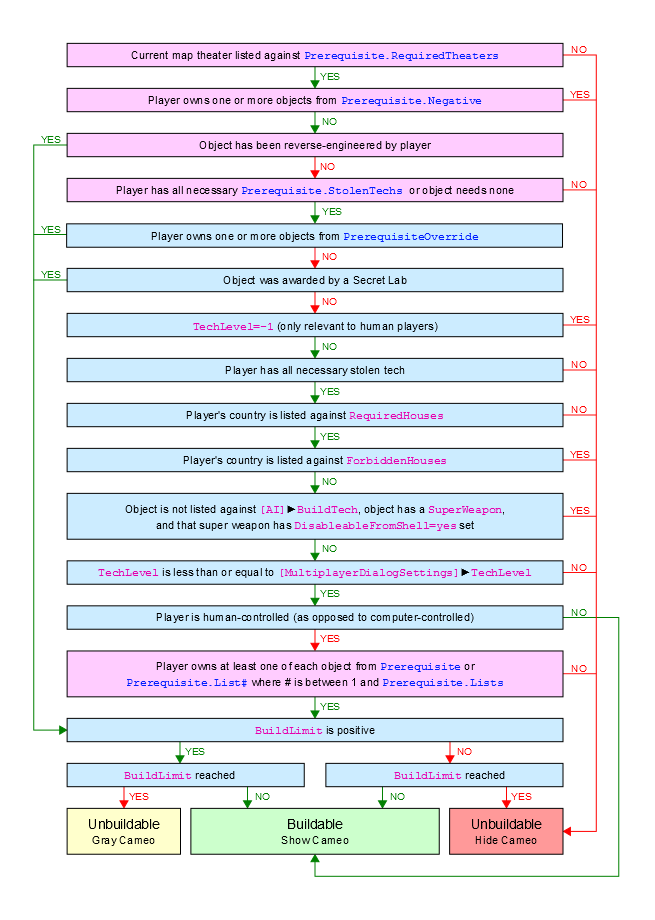
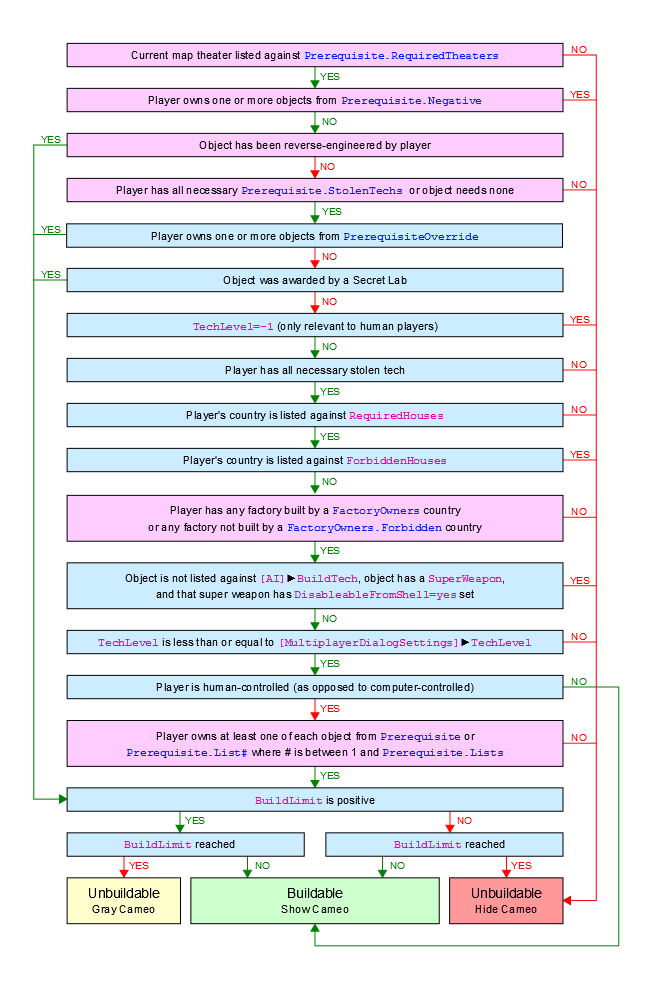
Prerequisite: Factory Built By Country

diff --git a/new/prerequisites.rst b/new/prerequisites.rst
@@ -84,6 +84,37 @@ Require Stolen Technology
 .. versionadded:: 0.1
 
 
+Require Factory Built By Country
+````````````````````````````````
+
+:tagdef:`[BuildingType]FactoryOwners.HaveAllPlans=boolean`
+  Whether a player capturing a building of this type would permanently gain all
+  plans of its initial owner. The initial owner is the player who owned it
+  first: the player who built it, or the owner of buildings pre-placed on the
+  map. For neutral structures, this would be the neutral country. Defaults to
+  :value:`no`.
+:tagdef:`[TechnoType]FactoryOwners=list of houses`
+  The list of countries whose factories can build this object. If empty, every
+  country is allowed to build this object. Otherwise, players need to own at
+  least one factory built by a country in this list or the plans of at least one
+  of these countries to produce it.
+:tagdef:`[TechnoType]FactoryOwners.Forbidden=list of houses`
+  The list of countries whose factories cannot build this object. Players owning
+  only factories built by countries in this list and only having plans of these
+  countries are prevented from producing it.
+
+.. note:: AI ignores :tag:`FactoryOwners` and :tag:`FactoryOwners.Forbidden` on
+  buildings, but not on units.
+
+.. note:: When undeploying, buildings will lose their initial owner and the
+  undeployed vehicle will be initially owned by the actual player. This might
+  change in the future.
+
+.. index:: Prerequisites; Require building built by certain country.
+
+.. versionadded:: 0.6
+
+
 Overview
 ````````
 
